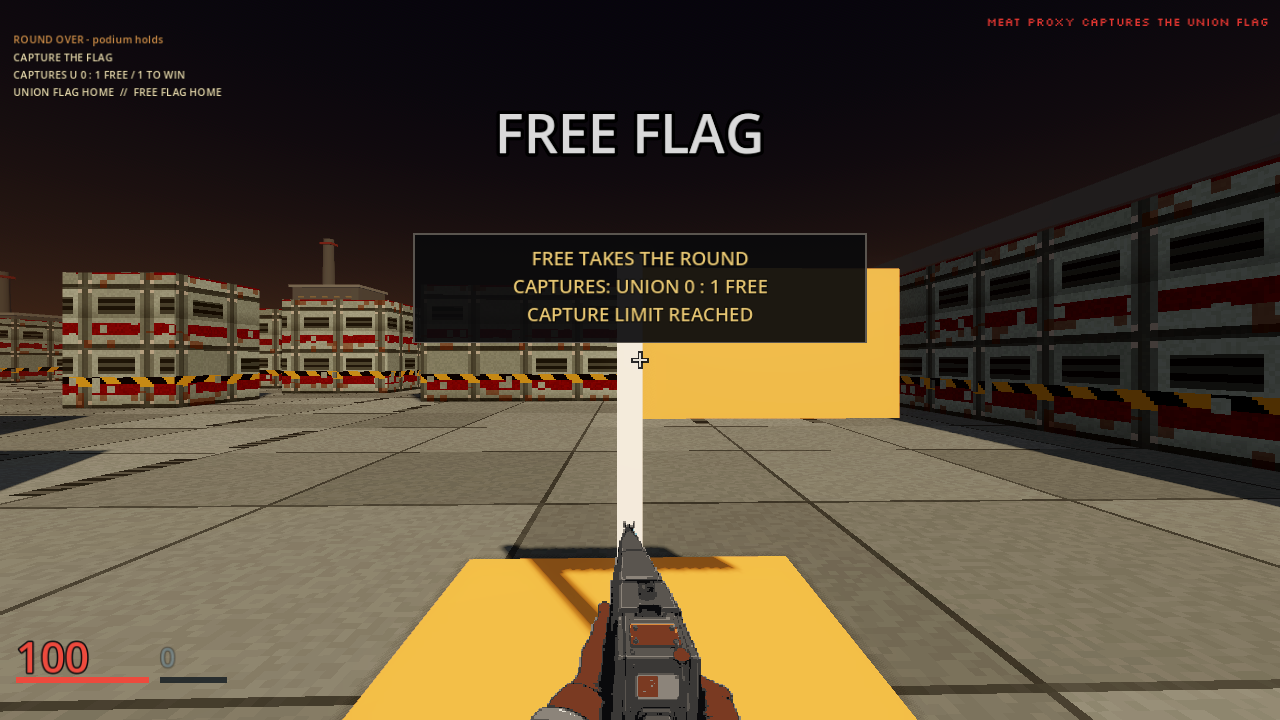
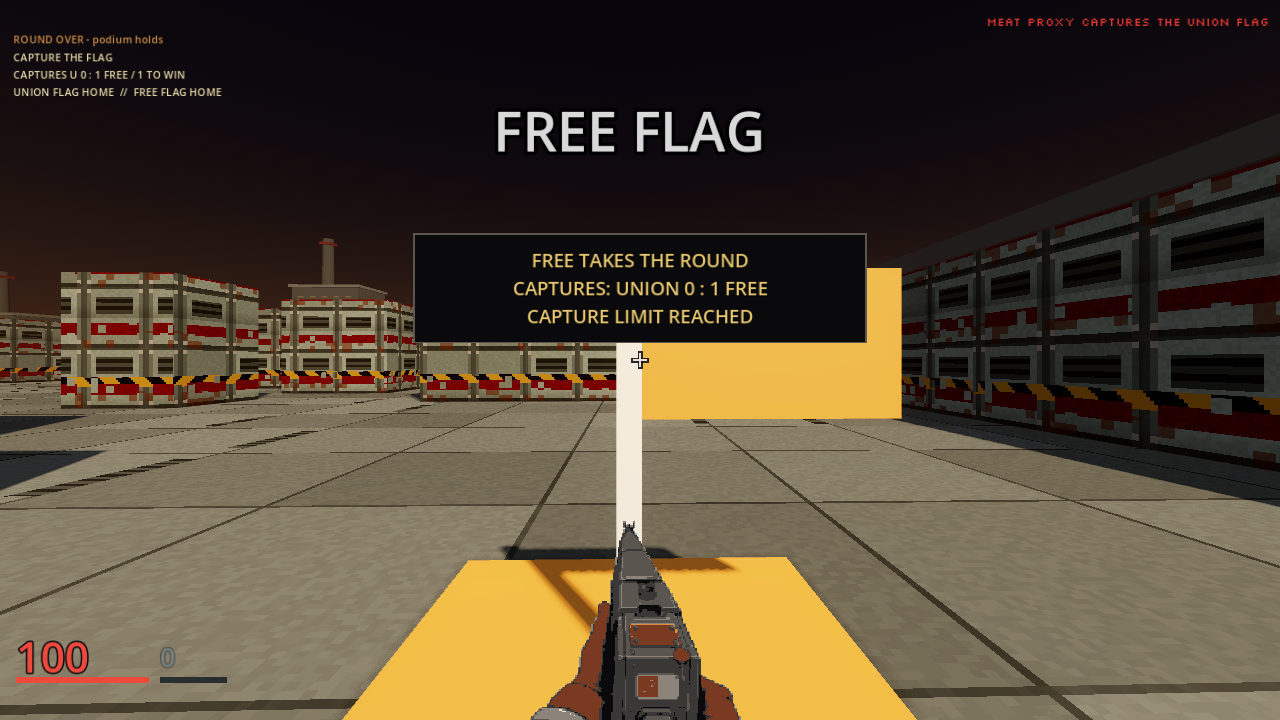
feat: keep a capture result readable over the home flag
The Sector 9 result reused the translucent weapon card, so the home
flag pole cut the score. The result now has its own opaque card and
the words sit inside it.

The joined tour used to wait for a waypoint inside the capture radius
after movement had already frozen, so the still often showed the next
round. It now stops when the round ends and checks the snapshot from
the grabbed frame.

diff --git a/docs/plans/ctf-result-card.md b/docs/plans/ctf-result-card.md
@@ -1,0 +1,35 @@
+# Capture result card
+
+**Status:** implemented, 2026-09-29. A presentation follow-up to the [first-person carry](ctf-fp-carry.md). Local evidence is below.
+
+## Goal and why
+
+A Sector 9 capture ends on the scoring stand. The result used the weapon card at 92 percent opacity, so the home flag's pole showed through the words. The player has to read who took the round while standing on that flag.
+
+## Design
+
+No server rule changes. Stands, return, capture, and the flag meshes stay as they are. The result words stay the existing `FLAG_ROUND_WINNER`, `FLAG_ROUND_DRAW`, and `FLAG_ROUND_FINAL_SCORE` strings.
+
+The capture card gets its own flat style. The fill is the same ink as the weapon card, fully opaque, with the same border. The words are inset on that card. Other round results keep the wide unbacked line. The weapon icon keeps the translucent shared style.
+
+## Non-goals
+
+No new mode, no flag rename, and no change to interpolation or transport. A human and spectator round is still the acceptance gate. This does not close it.
+
+## Architecture and protocol
+
+Client presentation only. The snapshot shape and gameplay capability stay unchanged.
+
+## Verification and spend
+
+`test_match_rules.gd` checks that a capture result shows the card, that its fill is opaque, and that the words sit inside it. `test_qa_combat.gd` accepts `stop_on_round_state` only for `Warmup`, `Active`, and `Ended`. External spend is $0.
+
+A capture freezes the pawn for the end delay, and the result waypoint's arrival disk sits inside the 2.5 metre touch radius. Waiting for that waypoint lets the next round open before the still. The result state in `client/qa/ctf_fighter_capture.json` stops the walk when the round is `Ended`. The tour compares flag, score, and round expectations to the snapshot taken with the still, before the pixel compare resumes the tree.
+
+The joined tour passed on Godot 4.7.2 and the AMD Radeon 780M renderer. Command: `FRAGR_QA_MANIFEST=res://qa/ctf_fighter_capture.json FRAGR_QA_MODE=ctf FRAGR_QA_MAP=4 FRAGR_QA_BOTS=0 FRAGR_QA_CAPTURE_LIMIT=1 FRAGR_QA_SEED=42 FRAGR_PORT=6844 tools/qa_tour.sh .agents/qa/ctf-result-card-2` from Git Bash, without `--publish`. The server logged `Round 1 ended: Capture limit reached` with captures union 0 coalition 1 at 2026-09-30T01:55:07Z. The result walk stopped on `Ended` after 1962 ms. The manifest records `home,home`, Coalition 1, Union 0, and round 1 `Ended`.
+
+[docs/screenshots/ctf_fighter_scored.png](../screenshots/ctf_fighter_scored.png) is that frame. The words are `FREE TAKES THE ROUND`, `CAPTURES: UNION 0 : 1 FREE`, and `CAPTURE LIMIT REACHED`. Pixels at the card center are the ink, RGB 10, 10, 12. The bone pole remains visible below the card, and the cloth remains visible beside it. The full `tools/godot_check.sh` passed on Godot 4.7.2-stable after that tour.
+
+## Success
+
+A player who scores can read who took the round, the capture count, and why it ended, with the home flag still visible around the card.

diff --git a/docs/plans/README.md b/docs/plans/README.md
@@ -46,6 +46,7 @@ Status words: **proposed** (a design awaiting Nick's decision; directs no work),
 | [`ctf-carried-label.md`](./ctf-carried-label.md) | **shipped** ([#300](https://github.com/blisspixel/fragr/pull/300), v0.59.0) | Carried flags say they are carried, on the cloth offset. Home and dropped labels stay on the pole. The live carried still shows the new words. |
 | [`ctf-flag-nameplate.md`](./ctf-flag-nameplate.md) | **shipped** ([#305](https://github.com/blisspixel/fragr/pull/305), v0.60.0) | A carried Sector 9 flag leaves its stand for a short grip in the carrier's hand. The empty stand dims. A nameplate still yields when it would cover the cloth or the world words. |
 | [`ctf-fp-carry.md`](./ctf-fp-carry.md) | **shipped** ([#307](https://github.com/blisspixel/fragr/pull/307), v0.61.0) | The first-person carrier sees that flag's cloth beside the weapon. The world grip stays for everyone else. |
+| [`ctf-result-card.md`](./ctf-result-card.md) | **implemented** | A Sector 9 capture result sits on an opaque card so the home flag does not cut the words. |
 | [`traveling-shot.md`](./traveling-shot.md) | **implemented** ([#302](https://github.com/blisspixel/fragr/pull/302)) | A server-owned point travels on a non-mission fixture, hits with the combat ray, and stays omitted from the snapshot while nothing is in flight. |
 | [`ctf-carry-episodes.md`](./ctf-carry-episodes.md) | **implemented**, [draft #295](https://github.com/blisspixel/fragr/pull/295) | Bounded per-carry progress and outcome evidence from the existing CTF observer; human and spectator acceptance remains open. |
 | [`ctf-socket-smoke.md`](./ctf-socket-smoke.md) | **implemented**, [draft #295](https://github.com/blisspixel/fragr/pull/295) | Controlled real-socket flag capture and asserted contested combat are separate CI gates; exact-head Linux CI passed, human match remains. |

diff --git a/docs/ROADMAP.md b/docs/ROADMAP.md
@@ -239,7 +239,8 @@ flag is carried, offset onto the cloth, in v0.59.0
 ([plan](plans/ctf-carried-label.md)). A carried flag leaves the stand for a short grip in the carrier's hand, in
 front of the body, and the empty stand dims, so the take reads at a glance
 ([plan](plans/ctf-flag-nameplate.md)). In first person that grip sits below the eye, so the carrier sees the side cloth and the stand words beside the weapon
-([plan](plans/ctf-fp-carry.md)). Two-bot goals are unchanged. A controlled socket
+([plan](plans/ctf-fp-carry.md)). A capture result sits on an opaque card, and the score stays readable in front of the home flag
+([plan](plans/ctf-result-card.md)). Two-bot goals are unchanged. A controlled socket
 gate proves a complete capture, while contested matches test combat and flag
 replication. Neither gate establishes human or spectator clarity. See the
 [carry evidence](plans/ctf-carry-episodes.md) and
